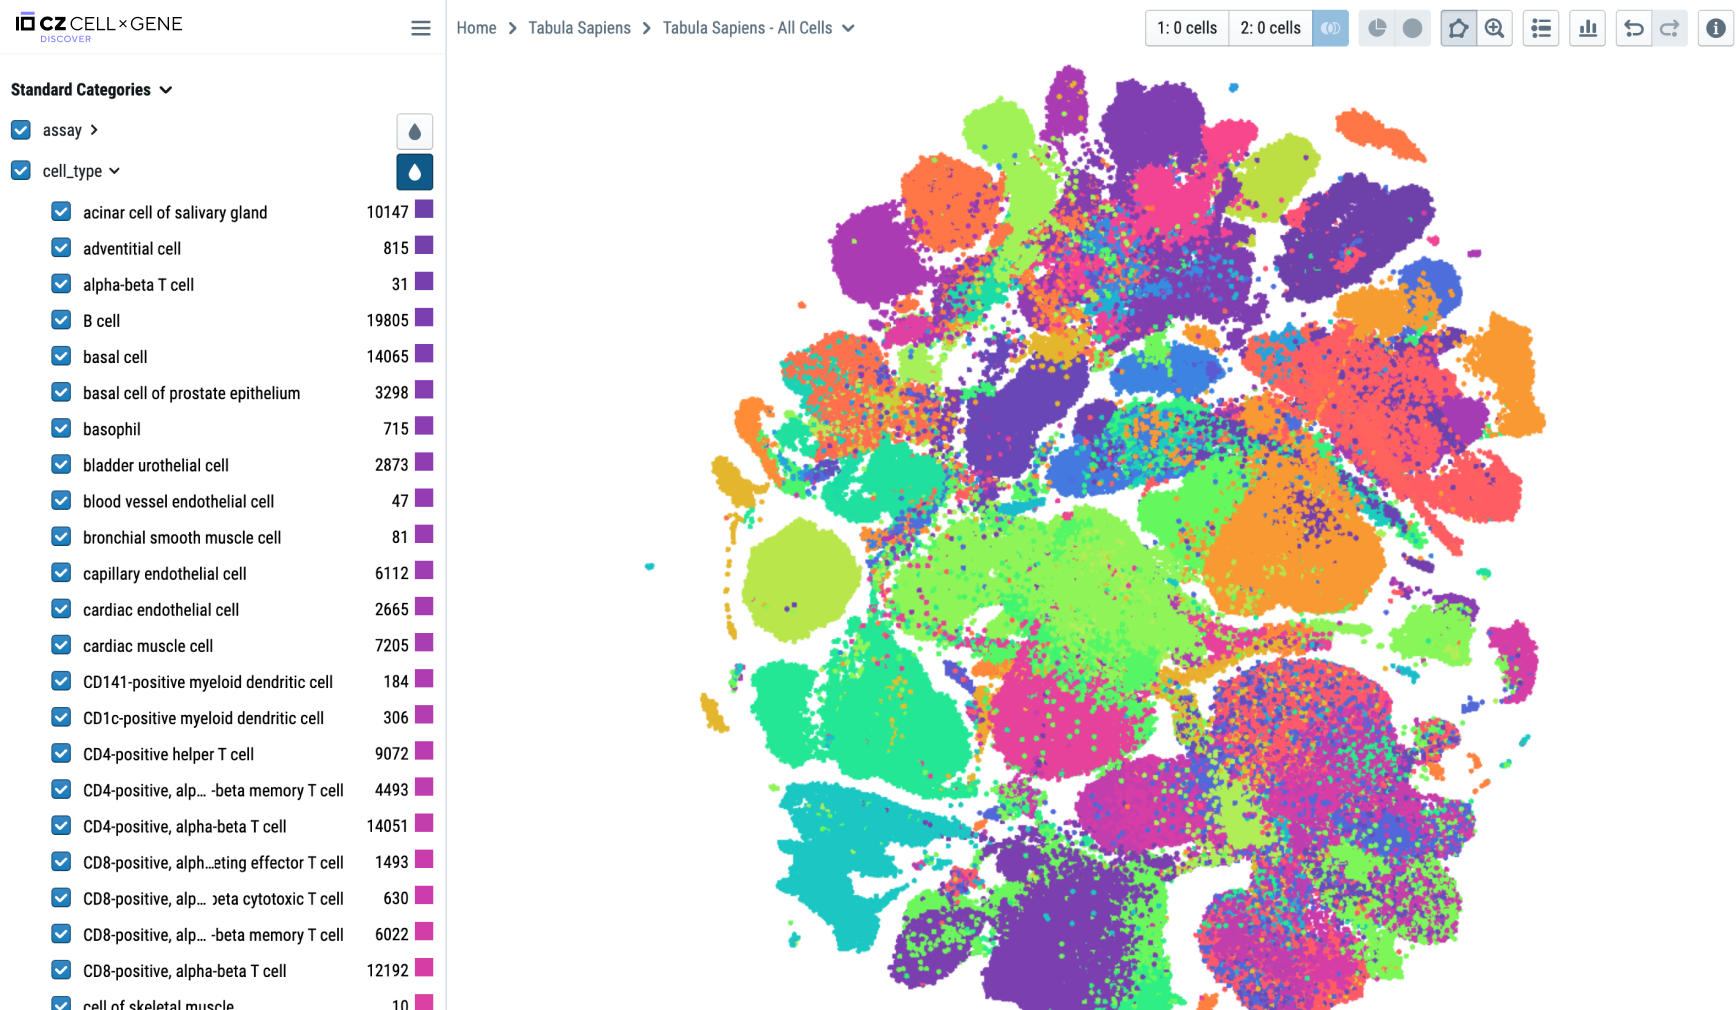
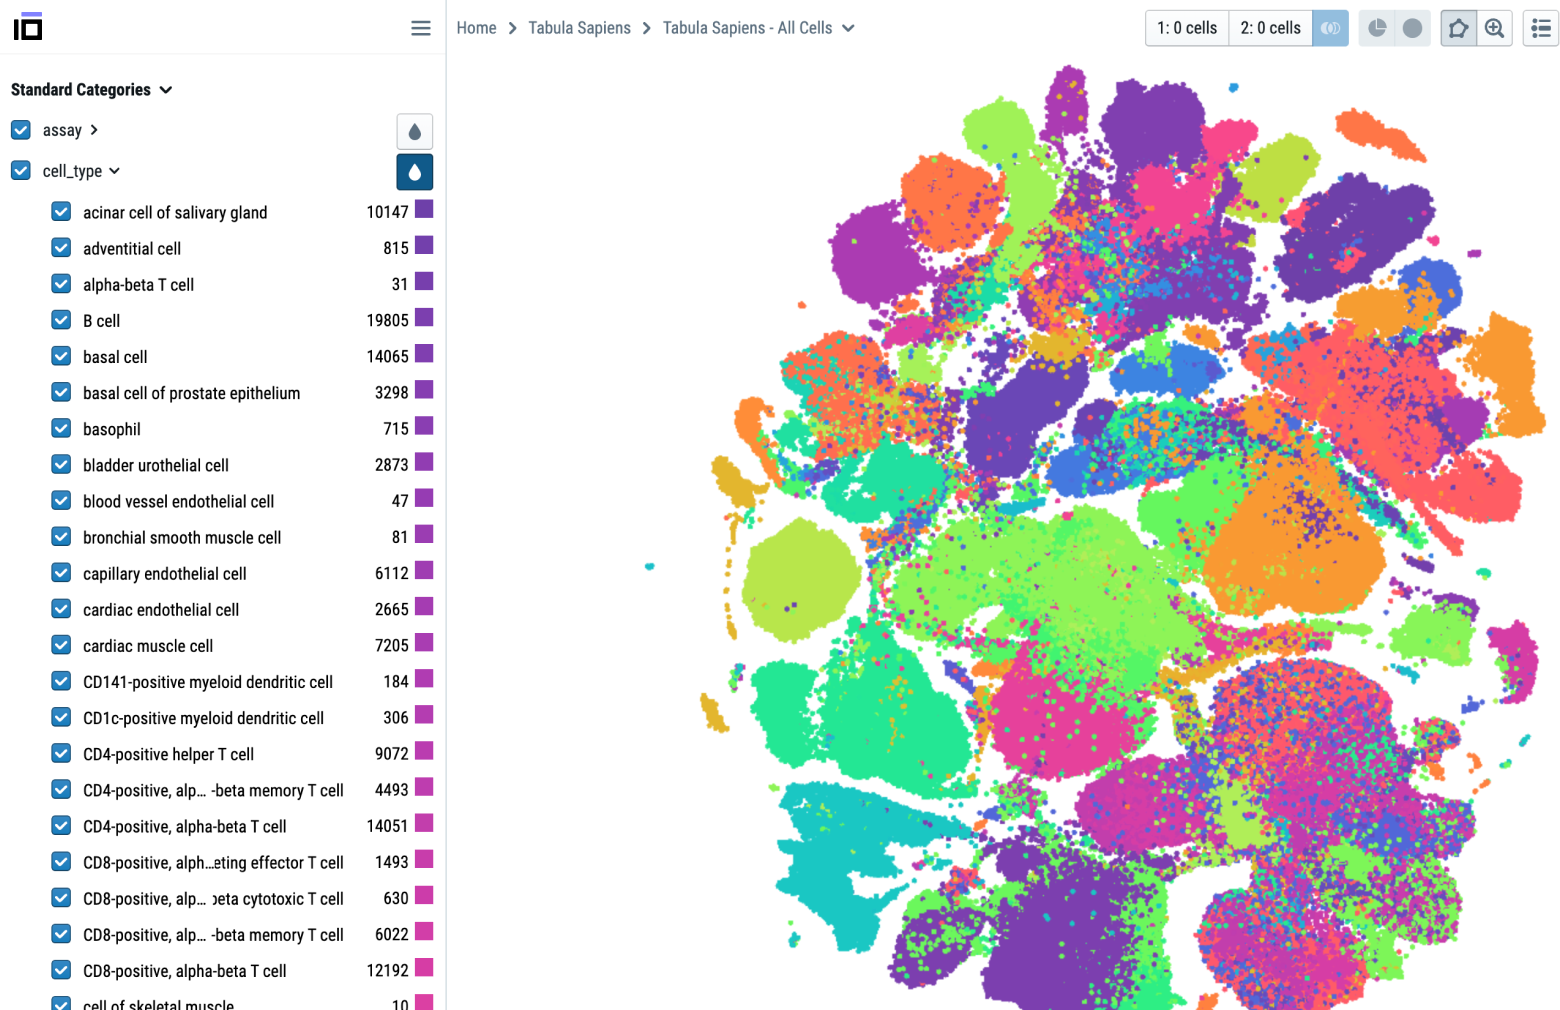
chore(landing): prelaunch updates (#2914)
* logo updates, and landing page image and copy updates

* updating images and logos

* updating routes with /landing-page route, updating header and footer logo hrefs

diff --git a/frontend/src/pages/landing-page/index.tsx b/frontend/src/pages/landing-page/index.tsx
@@ -5,6 +5,7 @@ import { useRef, useState } from "react";
 import { useInView } from "react-intersection-observer";
 import TweetEmbed from "react-tweet-embed";
 import { ROUTES } from "src/common/constants/routes";
+import wordmark from "src/common/images/cellxgene-discover-wordmark.svg";
 import AnalyzeDatasetsImg from "src/components/common/staticPages/analyze-datasets.png";
 import LaptopImg from "src/components/common/staticPages/cellxgene-discover-laptop.png";
 import HeroBg from "src/components/common/staticPages/cellxgene_hero_bg.png";
@@ -208,6 +209,9 @@ const LandingPage = (): JSX.Element => {
             </div>
           </div>
           <div className={styles.heroTextContainer}>
+            <div className={styles.heroLogo}>
+              <Image src={wordmark} alt="CZ CELLxGENE Discover" />
+            </div>
             <h1>Discover the mechanisms of human health</h1>
             <p>
               Download and visually explore reference-quality data to understand

diff --git a/frontend/src/components/LandingFooter/index.tsx b/frontend/src/components/LandingFooter/index.tsx
@@ -9,7 +9,7 @@ const LandingFooter = (): JSX.Element => {
     <footer className={styles.footer}>
       <div className={styles.footerTopContainer}>
         <div className={styles.footerLogo}>
-          <a href={ROUTES.HOMEPAGE} target="_blank" rel="noopener">
+          <a href={ROUTES.LANDING} target="_blank" rel="noopener">
             <Image src={wordmark} alt="CZ CELLxGENE Discover" />
           </a>
         </div>

diff --git a/frontend/src/components/common/HomepageLink/index.tsx b/frontend/src/components/common/HomepageLink/index.tsx
@@ -5,7 +5,7 @@ import { Logo } from "../Logo";
 
 export const HomepageLink: FC = () => {
   return (
-    <Link href={ROUTES.HOMEPAGE} passHref>
+    <Link href={ROUTES.LANDING} passHref>
       <a href="passHref">
         <Logo />
       </a>

diff --git a/frontend/src/common/constants/routes.ts b/frontend/src/common/constants/routes.ts
@@ -1,5 +1,6 @@
 export enum ROUTES {
   HOMEPAGE = "/",
+  LANDING = "/landing-page",
   MY_COLLECTIONS = "/my-collections",
   COLLECTION = "/collections/:id",
   COLLECTIONS = "/collections",

diff --git a/frontend/src/pages/landing-page/index.module.scss b/frontend/src/pages/landing-page/index.module.scss
@@ -47,6 +47,14 @@
 
 // HERO
 .hero {
+  &Logo {
+    margin-bottom: 20px;
+
+    img {
+      width: 158px;
+    }
+  }
+
   &Container {
     display: flex;
     align-items: center;

diff --git a/frontend/src/components/LandingFooter/index.module.scss b/frontend/src/components/LandingFooter/index.module.scss
@@ -10,7 +10,9 @@
   }
 
   &Logo {
-    width: 128px;
+    img {
+      width: 151px;
+    }
 
     @media (max-width: 992px) {
       margin-bottom: 40px;
